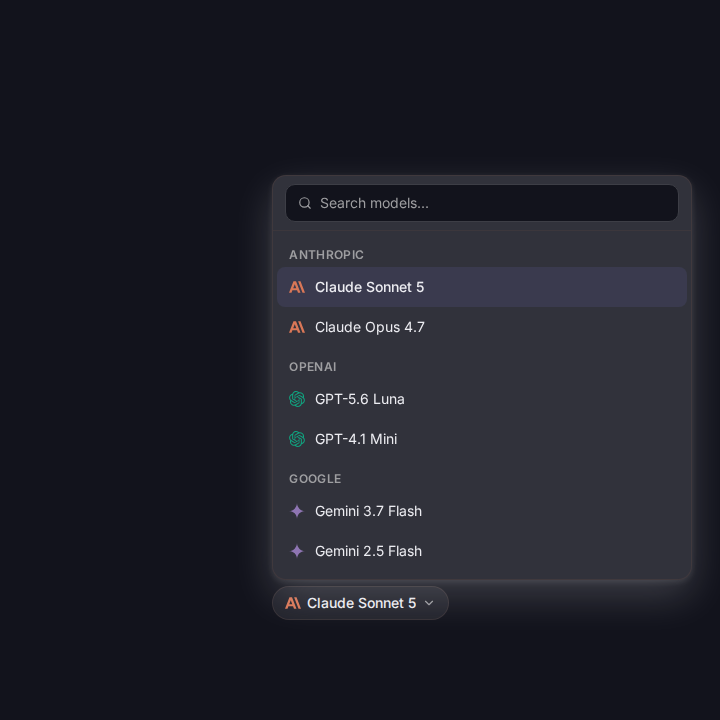
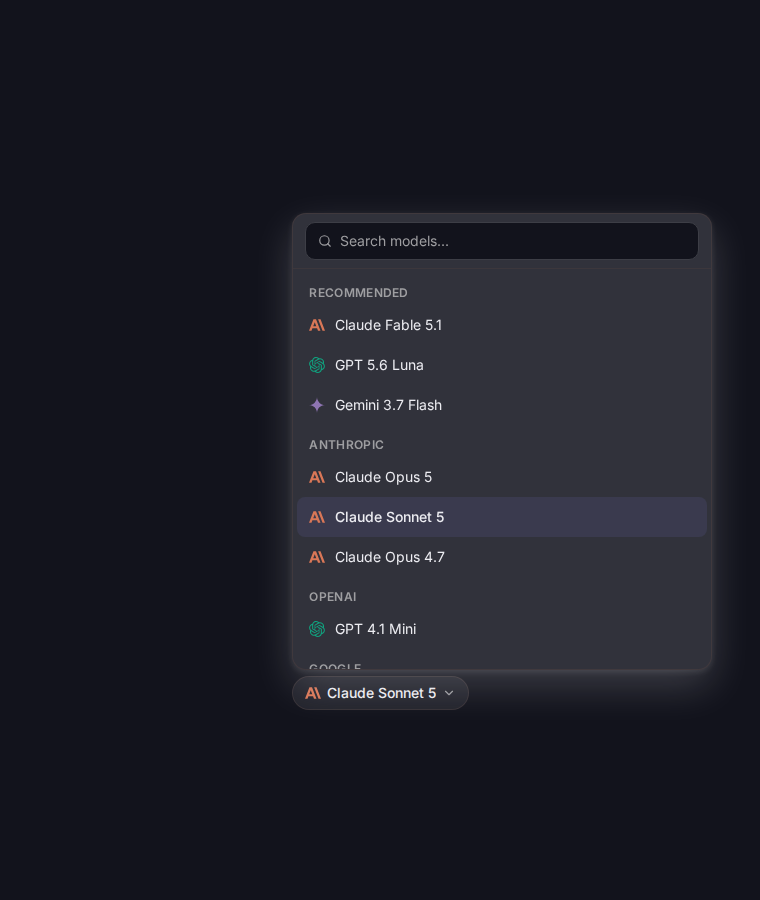
fix(catalog): rank every live model by freshness

Changed region(s): [[0.3667, 0.4889, 0.9778, 0.8556], [0.3972, 0.2139, 0.9778, 0.4583], [0.9167, 0.3667, 0.9778, 0.4278]]

diff --git a/src/runtime/model-catalog.ts b/src/runtime/model-catalog.ts
@@ -9,15 +9,14 @@
  * duplicate canonical ones. This module turns that into a product catalogue:
  *
  *   filter (chat-capable, routeable) → dedupe (snapshot/prefix/:free aliases)
- *   → rank (provider tier, current generation) → feature (best model per family)
+ *   → rank (provider tier, current generation) → feature (newest per provider)
  *   → default (env override or first featured)
  *
  * Freshness is automatic: everything is derived from the live router response,
  * so new models surface as soon as the router lists them. The only static
  * knowledge here is slow-moving: provider display order and family name
- * patterns (e.g. "claude-sonnet-*", "gpt-N"). A new Sonnet or GPT release
- * outranks its predecessor by version comparison with zero code change; only
- * a brand-new *family name* (rare) needs a one-line rule addition.
+ * patterns (e.g. "claude-sonnet-*", "gpt-N"). A new release and a new family
+ * both reach the first row from their versioned id with no catalogue edit.
  */
 
 export interface RouterModel {
@@ -77,6 +76,14 @@ const PROVIDER_TIER: string[] = [
   'cohere',
   'cerebras',
 ]
+
+/** Router aliases that are one provider in a user-facing catalogue. */
+function normalizeProvider(provider: string): string {
+  const normalized = provider.toLowerCase()
+  if (normalized === 'moonshotai') return 'moonshot'
+  if (normalized === 'z-ai') return 'zai'
+  return normalized
+}
 
 /** Non-chat endpoints that pollute the router list (matched on normalized id). */
 const EXCLUDED_ID = /(embedding|tts|transcribe|whisper|audio|realtime|image|lyria|sora|dall-e|moderation|content-safety|search-preview|search-api|deep-research|:batch$)/
@@ -166,8 +173,8 @@ function releaseVersion(id: string): number[] {
  */
 export function sortModelsByFreshness(models: readonly CatalogModel[]): CatalogModel[] {
   return [...models].sort((a, b) => {
-    const providerA = a.provider.toLowerCase()
-    const providerB = b.provider.toLowerCase()
+    const providerA = normalizeProvider(a.provider)
+    const providerB = normalizeProvider(b.provider)
     const providerOrder = providerRank(providerA) - providerRank(providerB)
     if (providerOrder !== 0) return providerOrder
     if (providerA !== providerB) return providerA.localeCompare(providerB)
@@ -191,7 +198,7 @@ function aliasPenalty(id: string): number {
 }
 
 function providerRank(provider: string): number {
-  const i = PROVIDER_TIER.indexOf(provider)
+  const i = PROVIDER_TIER.indexOf(normalizeProvider(provider))
   return i === -1 ? PROVIDER_TIER.length : i
 }
 
@@ -231,7 +238,11 @@ function isRouteable(m: RouterModel): boolean {
 export function buildCatalog(raw: RouterModel[], opts?: { preferredDefault?: string }): ModelCatalog {
   // Filter to chat-capable, routeable, non-specialty models
   const candidates = raw.filter(
-    (m) => m.id && isRouteable(m) && isChatModel(m) && !EXCLUDED_ID.test(normalizeModelId(m.id)),
+    (m) =>
+      m.id &&
+      isRouteable(m) &&
+      isChatModel(m) &&
+      !EXCLUDED_ID.test(normalizeModelId(m.id)),
   )
 
   // Dedupe alias groups (dated snapshots, provider prefixes, :free variants).
@@ -239,7 +250,7 @@ export function buildCatalog(raw: RouterModel[], opts?: { preferredDefault?: str
   // supported_parameters claim (snapshots often omit what the parent lists).
   const groups = new Map<string, RouterModel[]>()
   for (const m of candidates) {
-    const key = `${m._provider ?? ''}::${normalizeModelId(m.id)}`
+    const key = `${normalizeProvider(m._provider ?? 'unknown')}::${normalizeModelId(m.id)}`
     const g = groups.get(key)
     if (g) g.push(m)
     else groups.set(key, [m])
@@ -258,7 +269,7 @@ export function buildCatalog(raw: RouterModel[], opts?: { preferredDefault?: str
   for (const rule of FEATURED_RULES) {
     const matches = reps.filter(
       (r) =>
-        rule.providers.includes(r.model._provider ?? '') &&
+        rule.providers.map(normalizeProvider).includes(normalizeProvider(r.model._provider ?? '')) &&
         rule.match.test(r.normId) &&
         !featuredIds.includes(r.model.id),
     )
@@ -274,7 +285,7 @@ export function buildCatalog(raw: RouterModel[], opts?: { preferredDefault?: str
 
   const toCatalogModel = (r: (typeof reps)[number]): CatalogModel => {
     const m = r.model
-    const provider = m._provider ?? 'unknown'
+    const provider = normalizeProvider(m._provider ?? 'unknown')
     return {
       id: m.id,
       name: m.name ?? m.id,
@@ -291,17 +302,26 @@ export function buildCatalog(raw: RouterModel[], opts?: { preferredDefault?: str
     }
   }
 
-  // Keep each section provider-grouped, with the newest generation first.
+  // Family rules retain the intentional default preference. Display order is
+  // independent: every catalogue consumer gets provider-grouped freshness,
+  // even when it does not render ModelPicker.
   const featuredInRuleOrder = featuredIds
     .map((id) => reps.find((r) => r.model.id === id)!)
     .map(toCatalogModel)
-  const featured = sortModelsByFreshness(featuredInRuleOrder)
-  const rest = reps
-    .filter((r) => !featuredIds.includes(r.model.id))
-    .map(toCatalogModel)
-  const sortedRest = sortModelsByFreshness(rest)
-
-  const models = [...featured, ...sortedRest]
+  const sorted = sortModelsByFreshness(reps.map(toCatalogModel))
+  const newestProviderIds = new Set<string>()
+  const seenProviders = new Set<string>()
+  for (const model of sorted) {
+    const provider = model.provider.toLowerCase()
+    if (seenProviders.has(provider)) continue
+    seenProviders.add(provider)
+    newestProviderIds.add(model.id)
+  }
+  const models = sorted.map((model) =>
+    newestProviderIds.has(model.id) && !model.featured
+      ? { ...model, featured: true }
+      : model,
+  )
 
   const preferred = opts?.preferredDefault
   const defaultModelId =

diff --git a/src/stories/chat-controls/ModelPicker.stories.tsx b/src/stories/chat-controls/ModelPicker.stories.tsx
@@ -49,25 +49,27 @@ export const Open: Story = {
   },
 }
 
-const staleFirstModels: CatalogModel[] = [
-  { id: 'claude-opus-4-7', name: 'Claude Opus 4.7', provider: 'anthropic', supportsTools: true, supportsReasoning: true, featured: true },
-  { id: 'gpt-4.1-mini', name: 'GPT-4.1 Mini', provider: 'openai', supportsTools: true, supportsReasoning: false, featured: true },
-  { id: 'gemini-2.5-flash', name: 'Gemini 2.5 Flash', provider: 'google', supportsTools: true, supportsReasoning: true, featured: true },
-  { id: 'gemini-3.7-flash', name: 'Gemini 3.7 Flash', provider: 'google', supportsTools: true, supportsReasoning: true, featured: false },
-  { id: 'gpt-5.6-luna', name: 'GPT-5.6 Luna', provider: 'openai', supportsTools: true, supportsReasoning: true, featured: false },
-  { id: 'claude-sonnet-5', name: 'Claude Sonnet 5', provider: 'anthropic', supportsTools: true, supportsReasoning: true, featured: false },
+const currentModels: CatalogModel[] = [
+  { id: 'claude-opus-4-7', name: 'Claude Opus 4.7', provider: 'anthropic', supportsTools: true, supportsReasoning: true, featured: false },
+  { id: 'gpt-4.1-mini', name: 'GPT 4.1 Mini', provider: 'openai', supportsTools: true, supportsReasoning: false, featured: false },
+  { id: 'gemini-2.5-flash', name: 'Gemini 2.5 Flash', provider: 'google', supportsTools: true, supportsReasoning: true, featured: false },
+  { id: 'claude-opus-5', name: 'Claude Opus 5', provider: 'anthropic', supportsTools: true, supportsReasoning: true, featured: true },
+  { id: 'gemini-3.7-flash', name: 'Gemini 3.7 Flash', provider: 'google', supportsTools: true, supportsReasoning: true, featured: true },
+  { id: 'gpt-5.6-luna', name: 'GPT 5.6 Luna', provider: 'openai', supportsTools: true, supportsReasoning: true, featured: true },
+  { id: 'claude-sonnet-5', name: 'Claude Sonnet 5', provider: 'anthropic', supportsTools: true, supportsReasoning: true, featured: true },
+  { id: 'claude-fable-5-1', name: 'Claude Fable 5.1', provider: 'anthropic', supportsTools: true, supportsReasoning: true, featured: true },
 ]
 
-/** Even a stale input list and stale featured flags render current-first. */
+/** Current launches render first; old models remain available lower down. */
 export const FreshnessOrdering: Story = {
-  name: 'Freshness ordering',
+  name: 'Current launch ordering',
   decorators: [withPopoverHeadroom],
   render: () => (
     <AutoClick>
       <ModelPicker
         value="claude-sonnet-5"
         onChange={() => {}}
-        models={staleFirstModels}
+        models={currentModels}
       />
     </AutoClick>
   ),
@@ -78,7 +80,7 @@ export const Loading: Story = {
   decorators: [withPopoverHeadroom],
   render: () => (
     <AutoClick>
-      <ModelPicker value="anthropic/claude-opus-4" onChange={() => {}} models={[]} loading />
+      <ModelPicker value="claude-fable-5-1" onChange={() => {}} models={[]} loading />
     </AutoClick>
   ),
 }
@@ -134,11 +136,11 @@ export const AllStates: Story = {
   parameters: { layout: 'padded' },
   render: () => (
     <div className="flex flex-wrap items-center gap-3 p-4">
-      <ModelPicker value="anthropic/claude-opus-4" onChange={() => {}} models={catalogModels} />
-      <ModelPicker value="google/gemini-2.5-pro" onChange={() => {}} models={catalogModels} />
+      <ModelPicker value="claude-fable-5-1" onChange={() => {}} models={catalogModels} />
+      <ModelPicker value="gpt-5.6-luna" onChange={() => {}} models={catalogModels} />
       <ModelPicker value="deepseek/deepseek-chat" onChange={() => {}} models={catalogModels} />
       <ModelPicker value="acme/unreleased-model" onChange={() => {}} models={catalogModels} />
-      <ModelPicker value="anthropic/claude-opus-4" onChange={() => {}} models={[]} loading />
+      <ModelPicker value="claude-fable-5-1" onChange={() => {}} models={[]} loading />
     </div>
   ),
 }

diff --git a/src/stories/chat-controls/fixtures.tsx b/src/stories/chat-controls/fixtures.tsx
@@ -33,49 +33,50 @@ import type { ProductSeatOffer } from '../../platform/billing'
 
 // ── model catalog ───────────────────────────────────────────────────────────
 
-/** Same five-model catalogue the playground ships (`makeModels`). */
+/** Current five-model catalogue used across the chat-control stories. */
 export const catalogModels: CatalogModel[] = [
   {
-    id: 'anthropic/claude-opus-4',
-    name: 'Claude Opus 4',
+    id: 'claude-fable-5-1',
+    name: 'Claude Fable 5.1',
     provider: 'anthropic',
     description: 'Most capable Anthropic model',
     contextLength: 1_000_000,
-    pricing: { prompt: '0.000015', completion: '0.000075' },
+    pricing: { prompt: '0.00001', completion: '0.00005' },
     supportsTools: true,
     supportsReasoning: true,
     featured: true,
   },
   {
-    id: 'openai/gpt-5',
-    name: 'GPT-5',
-    provider: 'openai',
-    description: 'OpenAI flagship',
-    contextLength: 400_000,
-    pricing: { prompt: '0.00001', completion: '0.00003' },
-    supportsTools: true,
-    supportsReasoning: true,
-    featured: true,
-  },
-  {
-    id: 'anthropic/claude-haiku-4',
-    name: 'Claude Haiku 4',
+    id: 'claude-opus-5',
+    name: 'Claude Opus 5',
     provider: 'anthropic',
-    contextLength: 200_000,
-    pricing: { prompt: '0.000001', completion: '0.000005' },
+    description: 'Frontier Anthropic model',
+    contextLength: 1_000_000,
+    pricing: { prompt: '0.000005', completion: '0.000025' },
     supportsTools: true,
-    supportsReasoning: false,
-    featured: false,
+    supportsReasoning: true,
+    featured: true,
   },
   {
-    id: 'google/gemini-2.5-pro',
-    name: 'Gemini 2.5 Pro',
+    id: 'gpt-5.6-luna',
+    name: 'GPT 5.6 Luna',
+    provider: 'openai',
+    description: 'Current efficient OpenAI model',
+    contextLength: 400_000,
+    pricing: { prompt: '0.0000002', completion: '0.0000012' },
+    supportsTools: true,
+    supportsReasoning: true,
+    featured: true,
+  },
+  {
+    id: 'gemini-3.7-flash',
+    name: 'Gemini 3.7 Flash',
     provider: 'google',
     contextLength: 2_000_000,
-    pricing: { prompt: '0.0000025', completion: '0.00001' },
+    pricing: { prompt: '0.00000075', completion: '0.00000375' },
     supportsTools: true,
     supportsReasoning: true,
-    featured: false,
+    featured: true,
   },
   {
     id: 'deepseek/deepseek-chat',
@@ -89,7 +90,7 @@ export const catalogModels: CatalogModel[] = [
   },
 ]
 
-export const DEFAULT_MODEL_ID = catalogModels[0]?.id ?? 'anthropic/claude-opus-4'
+export const DEFAULT_MODEL_ID = catalogModels[0]?.id ?? 'claude-fable-5-1'
 /** A model with `supportsReasoning: false` — the effort picker hides for it. */
 export const NON_REASONING_MODEL_ID = 'deepseek/deepseek-chat'
 

diff --git a/tests/model-catalog.test.ts b/tests/model-catalog.test.ts
@@ -91,10 +91,51 @@ describe('buildCatalog', () => {
     expect(catalog.defaultModelId).toBe('claude-sonnet-4-6')
   })
 
-  it('puts featured models first, then provider-tier order', () => {
-    const featuredCount = catalog.models.filter((m) => m.featured).length
-    const rest = catalog.models.slice(featuredCount)
-    expect(rest.every((m) => !m.featured)).toBe(true)
+  it('returns the catalogue in the same freshness order the picker uses', () => {
+    expect(catalog.models.map((model) => model.id)).toEqual(
+      sortModelsByFreshness(catalog.models).map((model) => model.id),
+    )
+  })
+
+  it('recommends a new versioned family without a family rule', () => {
+    const current = buildCatalog([
+      {
+        id: 'claude-opus-5',
+        _provider: 'anthropic',
+        routeability: { routeable: true },
+      },
+      {
+        id: 'claude-fable-5-1',
+        _provider: 'anthropic',
+        routeability: { routeable: true },
+      },
+    ])
+
+    expect(current.models.map((model) => model.id)).toEqual([
+      'claude-fable-5-1',
+      'claude-opus-5',
+    ])
+    expect(current.models[0]?.featured).toBe(true)
+  })
+
+  it('groups provider aliases so an old alias cannot precede its successor', () => {
+    const current = buildCatalog([
+      {
+        id: 'moonshotai/kimi-k2',
+        _provider: 'moonshotai',
+        routeability: { routeable: true },
+      },
+      {
+        id: 'kimi-k3',
+        _provider: 'moonshot',
+        routeability: { routeable: true },
+      },
+    ])
+
+    expect(current.models.map(({ id, provider }) => ({ id, provider }))).toEqual([
+      { id: 'kimi-k3', provider: 'moonshot' },
+      { id: 'moonshotai/kimi-k2', provider: 'moonshot' },
+    ])
   })
 
   it('picks a tool-capable featured model as default', () => {
@@ -139,10 +180,14 @@ describe('sortModelsByFreshness', () => {
       model('gemini-2.5-flash', 'google'),
       model('gemini-3.7-flash', 'google'),
       model('claude-opus-4-7', 'anthropic'),
+      model('claude-opus-5', 'anthropic'),
       model('claude-sonnet-5', 'anthropic'),
+      model('claude-fable-5-1', 'anthropic'),
     ])
 
     expect(sorted.map((entry) => entry.id)).toEqual([
+      'claude-fable-5-1',
+      'claude-opus-5',
       'claude-sonnet-5',
       'claude-opus-4-7',
       'gpt-5.6-luna',
